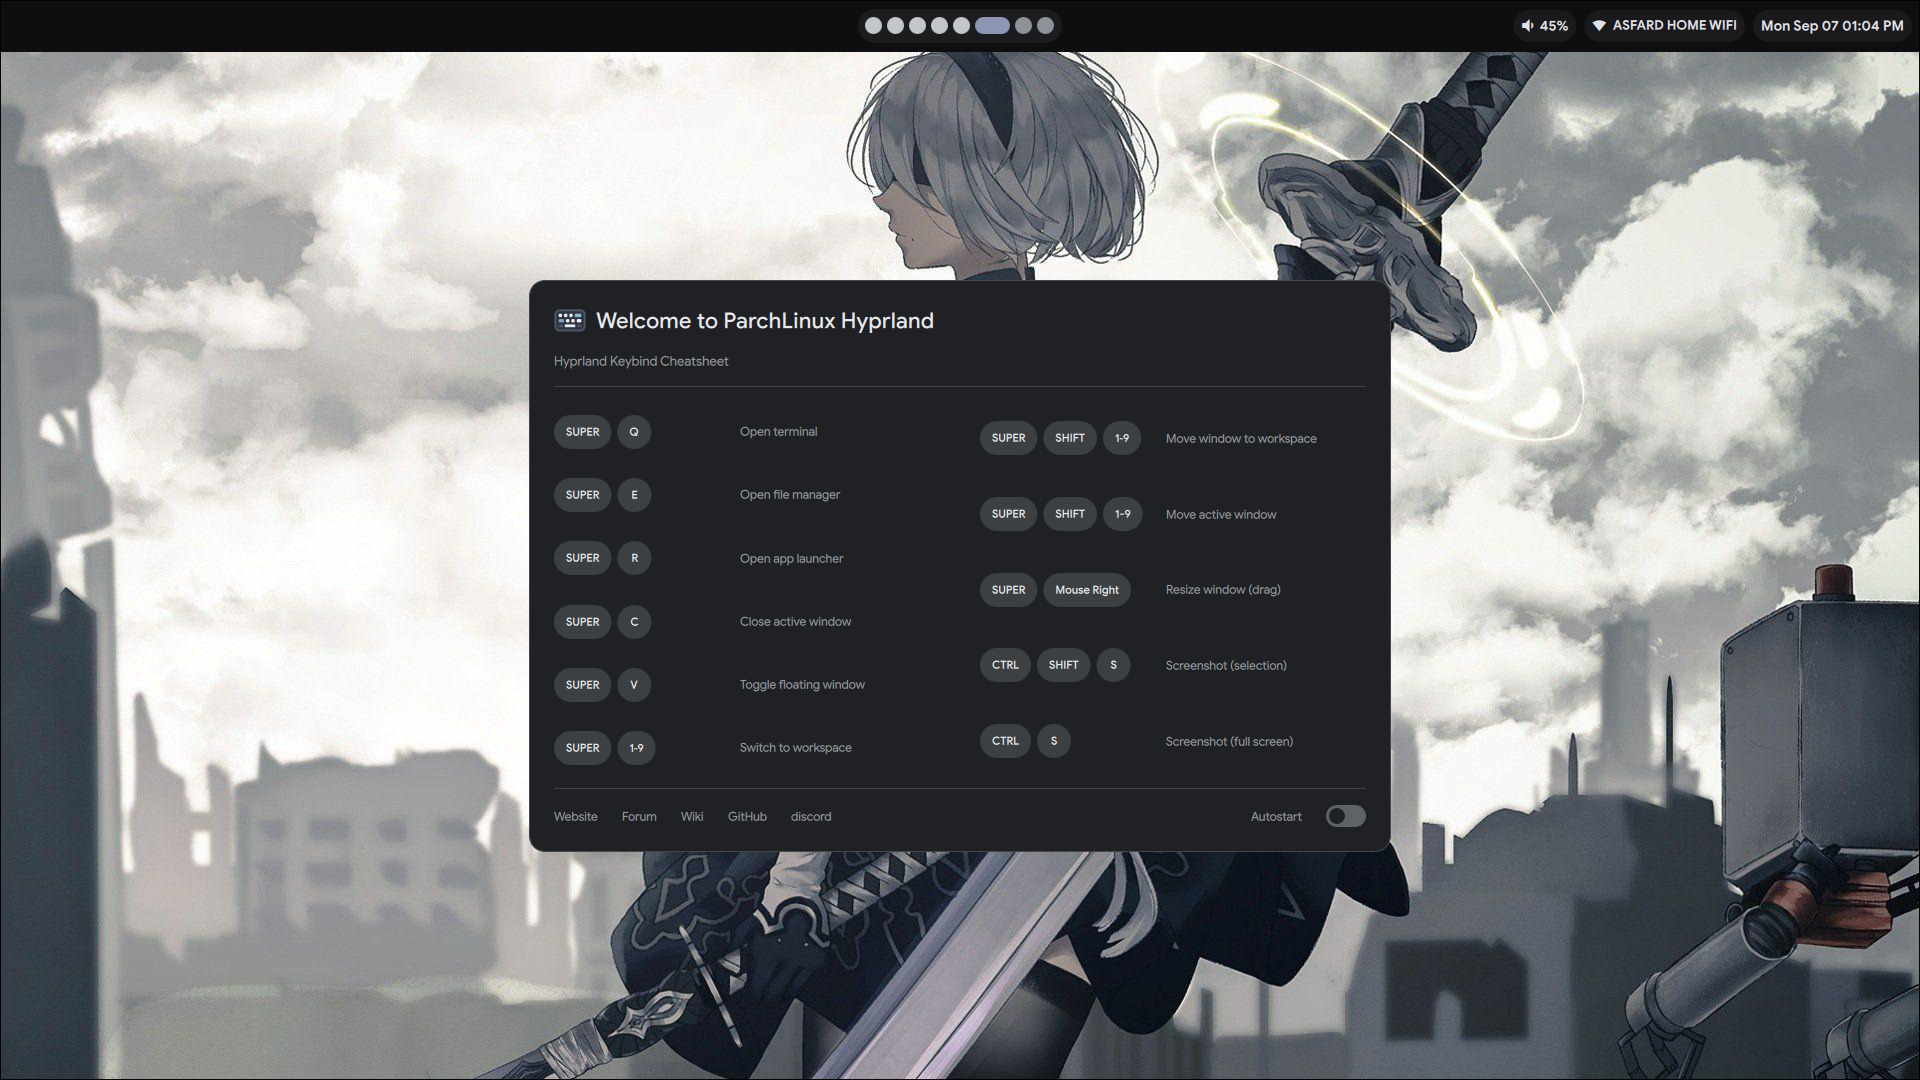
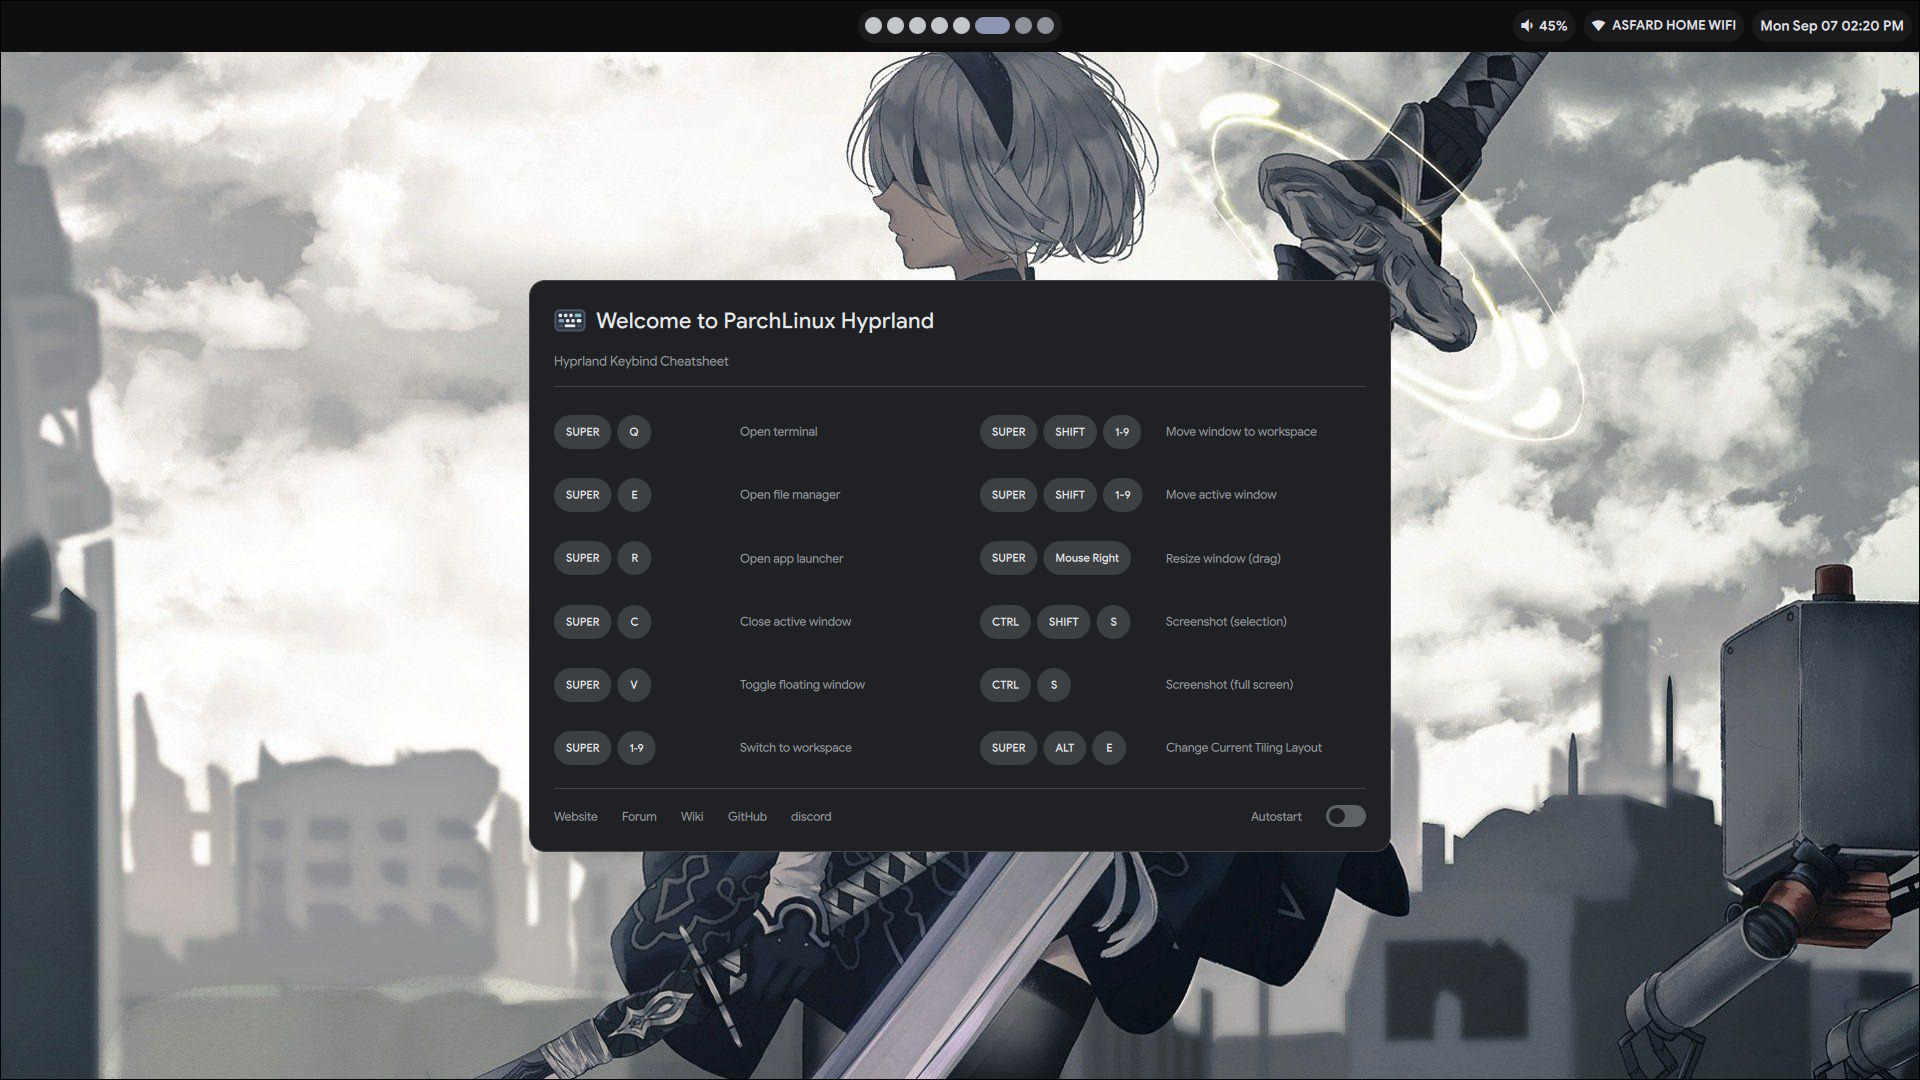
New Keybind

Changed region(s): [[0.5, 0.3667, 0.6875, 0.7028], [0.8438, 0.0, 0.9688, 0.0306], [0.7812, 0.0, 0.8125, 0.0306]]

diff --git a/cheatsheet.qml b/cheatsheet.qml
@@ -59,17 +59,18 @@ ShellRoot {
 
 
         property var binds: [
-            { combo: ["SUPER", "Q"],        desc: "Open terminal" },
+            { combo: ["SUPER", "Q"],              desc: "Open terminal" },
             { combo: ["SUPER", "E"],              desc: "Open file manager" },
             { combo: ["SUPER", "R"],              desc: "Open app launcher" },
             { combo: ["SUPER", "C"],              desc: "Close active window" },
             { combo: ["SUPER", "V"],              desc: "Toggle floating window" },
             { combo: ["SUPER", "1‑9"],            desc: "Switch to workspace" },
             { combo: ["SUPER", "SHIFT", "1‑9"],   desc: "Move window to workspace" },
-            { combo: ["SUPER", "SHIFT", "1-9"], desc: "Move active window" },
+            { combo: ["SUPER", "SHIFT", "1-9"],   desc: "Move active window" },
             { combo: ["SUPER", "Mouse Right"],    desc: "Resize window (drag)" },
             { combo: ["CTRL", "SHIFT", "S"],      desc: "Screenshot (selection)" },
-            { combo: ["CTRL", "S"],               desc: "Screenshot (full screen)" }
+            { combo: ["CTRL", "S"],               desc: "Screenshot (full screen)" },
+            { combo: ["SUPER", "ALT" , "E"],      desc: "Change Current Tiling Layout" }
         ]
         property var links: [
             { label: "Website", url: "https:/parchlinux.com"},
